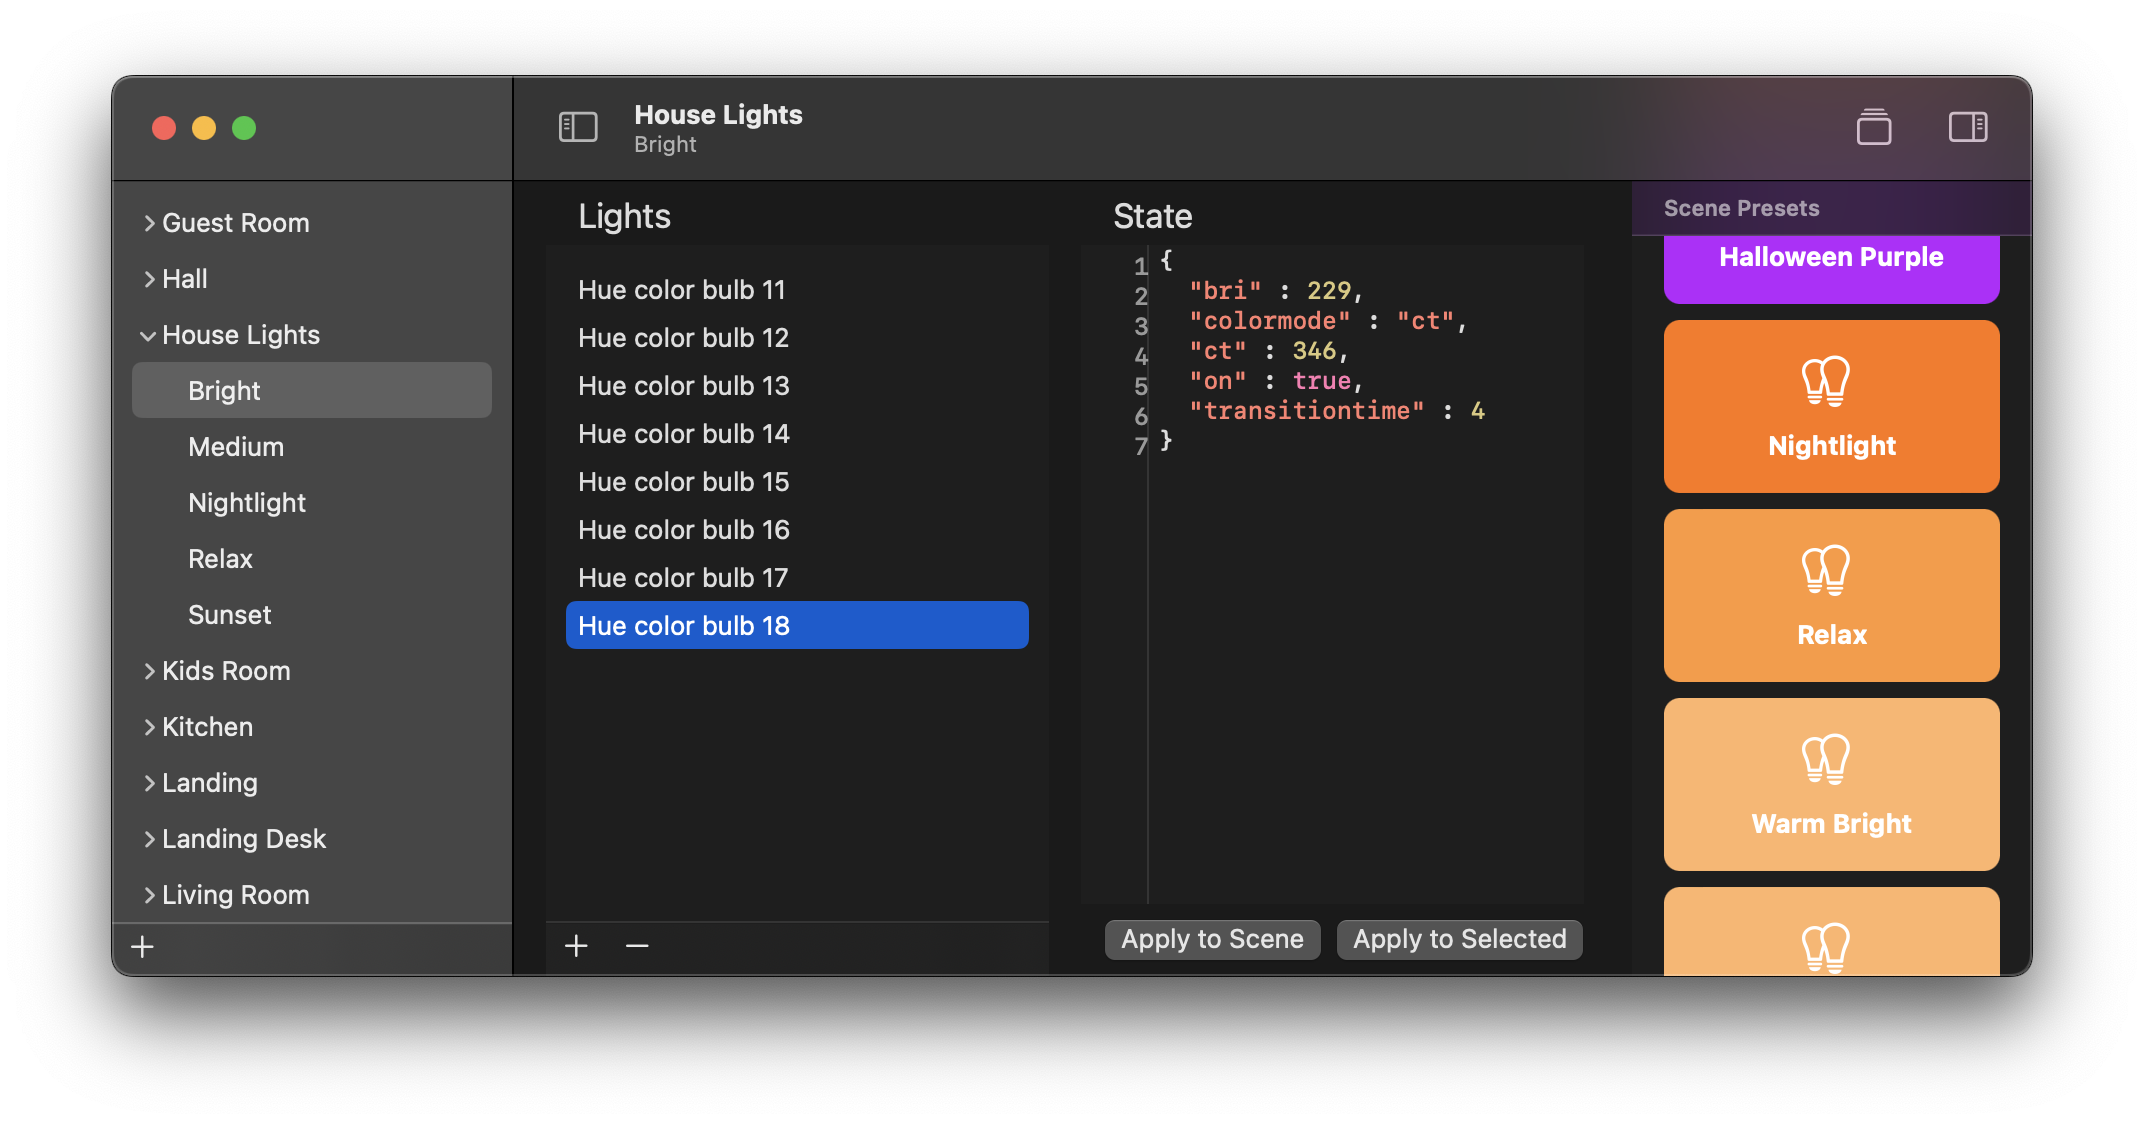
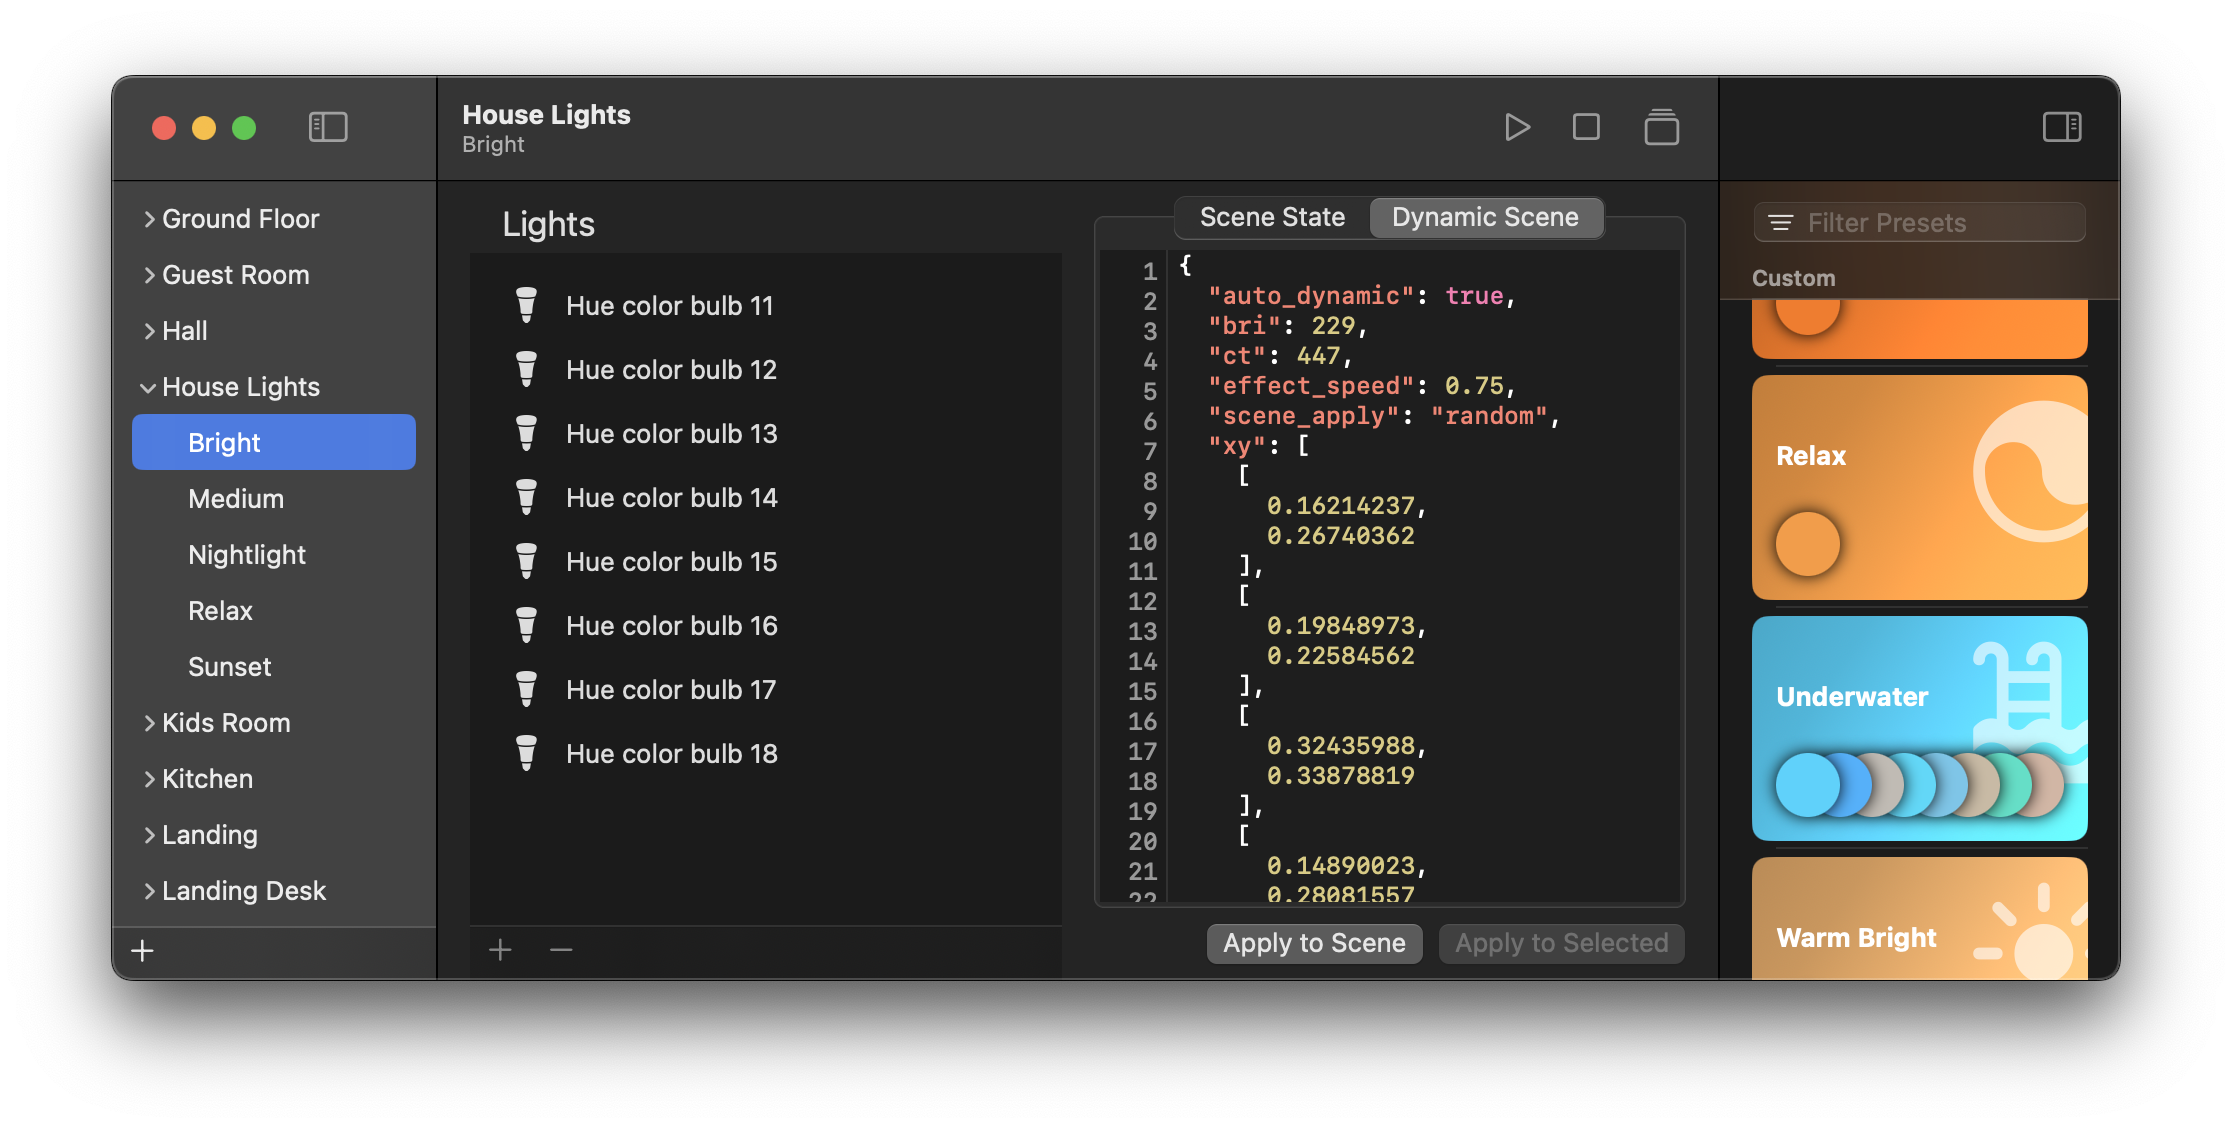
Update documentation to address Dynamic Scenes

diff --git a/README.md b/README.md
@@ -5,15 +5,15 @@
 ## About
 
 Scene Manager facilitates managing Groups and Scenes used by the deCONZ REST API. Traditional scene
-management applications provide an interactive way to define the state of a Scene - settings like
+management applications provide an interactive way to define the state of a Scene - attributes like
 'brightness' and 'color' of Lights are adjusted "live" and stored as a Scene once the user is satisfied with
 the values for all of the Lights in the Group. The deCONZ REST API provides a way to define Scenes by
-specifying the values each Light in the Scene should be set to - but this requires addressing Groups, Scenes,
-and Lights by their numeric identifiers.
+specifying the values each attribute of a Light in a Scene should be set to - but this requires addressing
+Groups, Scenes, and Lights by their numeric identifiers.
 
 Scene Manager allows the user to address Groups, Scenes, and Lights by their names and define Scenes without
 disturbing the current state of the Lights. It specializes in replicating identical light states across many
-Lights and Scenes over providing an interactive way to set values for the Light's different settings.
+Lights and Scenes over providing an interactive way to set values for the Lights' different attributes.
 
 As an example, most of my Groups define scenes for 'Bright', 'Medium', 'Relax', and 'Nightlight' light
 levels. Providing the exact same values to the Scenes across different groups is very time-consuming, if at
@@ -24,15 +24,19 @@ where needed.
 ## Requirements
 
 Besides easing the administrative burden of managing Scenes, a secondary goal for this project was to
-familiarize myself with SwiftUI and Swift Concurrency. Scene Manager requires at least macOS 13.0 to run.
+familiarize myself with SwiftUI and Swift Concurrency. Scene Manager requires at least macOS 15.0 to run
+and is currently built with Swift 6 and its strict concurrency model.
 
 Scene Manager also requires a recent version of the deCONZ REST API with a few additions that remain to
-be merged by the maintainers. Scene Manager requires deCONZ functionality that allows:
+be merged in by the maintainers. Scene Manager requires deCONZ functionality that allows:
  
 * The Lights of a Scene to be a subset of the Lights in the Scene's Group
 * Querying all of the Scenes known to the API
 * Controlling supported Hue devices over the manufacturer-specific `0xfc03` cluster
-* Modifying and recalling scenes for supported Hue devices over the manufacturer-specific `0xfc03` cluster
+* Modifying and recalling scenes for supported Hue devices with a manufacturer-specific command
+* Storing definitions for Dynamic Scenes as part of a Scene
+
+Such a version of the deCONZ REST API is available [here](https://github.com/hanskroner/deconz-rest-plugin/tree/hue-dynamic-scenes).
 
 ## Features
 
@@ -40,12 +44,13 @@ be merged by the maintainers. Scene Manager requires deCONZ functionality that a
 - Add and remove Lights to/from Groups and Scenes
 - Modify the state of a Light in a Scene
 - Save the state of a Light as a Preset
+- Create and modify Dynamic Scenes in Scenes
+- Apply Dynamic States to Scenes
 
 ## Limitations
 
 - Changing the current state of a Group is not possible through the application
-- Recalling Scenes is not possible through the application
-- There is no indication of when an operation has succesfully completed. This is a pretty big deal, but
+- There is no indication of when an operation has successfully completed. This is a pretty big deal, but
 currently the deCONZ REST API does not provide a success or failure indication for Zigbee commands. It only
 does so for the REST commands.
 
@@ -60,9 +65,9 @@ generate and acquire an API key.
 ## Groups
 
 The deCONZ REST API provides the ability to create Groups, which directly map to Zigbee Groups. These Groups
-allow to broadcast or multi-cast commands to many devices, delivering the payload to them at very nearly
-the exact time. For Lights, this prevents the "popcorn" effect that single-casting a message to each Light
-creates.
+allow to broadcast or multi-cast commands to many devices, delivering a payload to them at very nearly
+the exact time. For Lights, this prevents the "popcorn" effect created by single-casting a message to each
+Light sequentially.
 
 For Scene Manager, Groups are containers of two things: Scenes and Lights. It is possible to create a new,
 empty Group by using the "+" button on the left-hand side sidebar. Groups can be renamed or deleted by
@@ -79,7 +84,8 @@ REST API automatically.
 
 The deCONZ REST API also provides the ability to create Scenes, which directly map to Zigbee Scenes. These
 Scenes allow to broadcast or multi-cast commands to select members of a Group, instructing them to move to
-some pre-defined settings. For Lights, this allows setting and very quickly recalling preset values of a
+some pre-defined attribute values without needing to specify the values - they've already been stored in each
+member of the Scene beforehand. For Lights, this allows setting and very quickly recalling preset values of a
 Light's state.
 
 For Scene Manager, Scenes are containers of Lights having a specific light state. A new Scene can be created
@@ -95,14 +101,14 @@ API automatically.
 
 ## Light States
 
-Light States represent the settings, and their values, that make up a light state. These include things like
+Light States represent the attributes, and their values, that make up a light state. These include things like
 whether a Light is 'on' or 'off', its level of brightness, and color (or color temperature). It may also
 include things like the time in 10ths of a second the Light will take to reach those values when it is asked
 to recall a particular scene.
 
 Light States are displayed in Scene Manager as JSON objects that follow the definitions used by the
 [deCONZ REST API](https://dresden-elektronik.github.io/deconz-rest-doc/endpoints/scenes/#response_2). Scene
-Manager does not support Hue and Saturation values. A JSON object is no the most intuitive representation for
+Manager does not support Hue and Saturation values. A JSON object is not the most intuitive representation for
 the state of a Light - it's not easy to know what color the `xy` parameter is representing, or just how
 bright a value for `bri` really is. However, it does make for quick editing and is easy to replicate across
 Lights and Scenes - which is what Scene Manager aims to do well.
@@ -112,12 +118,38 @@ then applied to Lights in a Scene by using the 'Apply to Selected' button. Multi
 of the Scene may be selected and the Light State will be stored for all of them. As a convenience, the state
 can be applied to all Lights that are members of the Scene by clicking the 'Apply to Scene' button.
 
+## Dynamic Scenes
+
+Dynamic Scenes can be thought of as collections of attributes that Light members of a scene will cycle through.
+The speed at which the transitions occur is configurable. Dynamic Scenes rely on first recalling a "regular"
+scene that sets its Light members in an initial state. The collection of attributes is then streamed to the scene
+(at the Zigbee level, this is a separate, manufacturer-proprietary command) and the Lights' firmware takes care
+of figuring out where in the collection of attributes it is starting from and how to cycle through it.
+
+The initial state of the Dynamic Scene is set by recalling a scene. As a convenience, Scene Manager can modify
+the Light State of scene members with the values in the Dynamic Scene collection by clicking the 'Apply to Scene'
+button when in the Dynamic Scene editor. Scene Manager uses an additional attribute, 'scene_apply', to decide how
+to apply the values in the collection to the scene. `sequence` assigns the states in order and deterministically
+to the members of a scene, `random` will apply values randomly, and `ignore` will not modify the scene (though it
+will update the definition of the Dynamic Scene).
+
+While Dynamic Scenes support 'effects', and they will be applied to a scene if present, the lights' firmware does
+not seem to (at the time of this writing) apply them to lights when cycling through the values in the collection,
+nor does it seems to cycle through the values in lights that receive an 'effect' as their starting state.
+
+Dynamic Scenes are at their best when used for "ambiance" or "mood" lighting, where the changes between colors are
+subtle, harmonious, and performed slowly. Light effects or "animations" do not perform particularly well as 
+Dynamic Scenes.
+
 ## Presets
 
 Light states that will be used by many Lights or in many Scenes can be saved as Presets. Available Presets
-are shown in a list in the right-hand side inspector pane. Presets can be dragged and dropped into the Light
-State Editor to recall their values. From there, they can be applied to individual Lights, or to an entire
-Scene.
+are shown in a list in the right-hand side inspector pane. Presets can be dragged and dropped into the Editor
+to recall their values. From there, they can be applied to individual Lights, or to an entire Scene.
+
+Presets can contain either one specific set of attributes or a collection of attributes that can be applied
+to the whole scene and which the members of the scene will cycle through. The latter are referred to as
+'Dynamic Scenes'.
 
 A new Preset can be created from the contents of the Light State Editor by clicking the 'Store as Preset'
 icon in the toolbar. Presets can be renamed or deleted by right-clicking on them.
